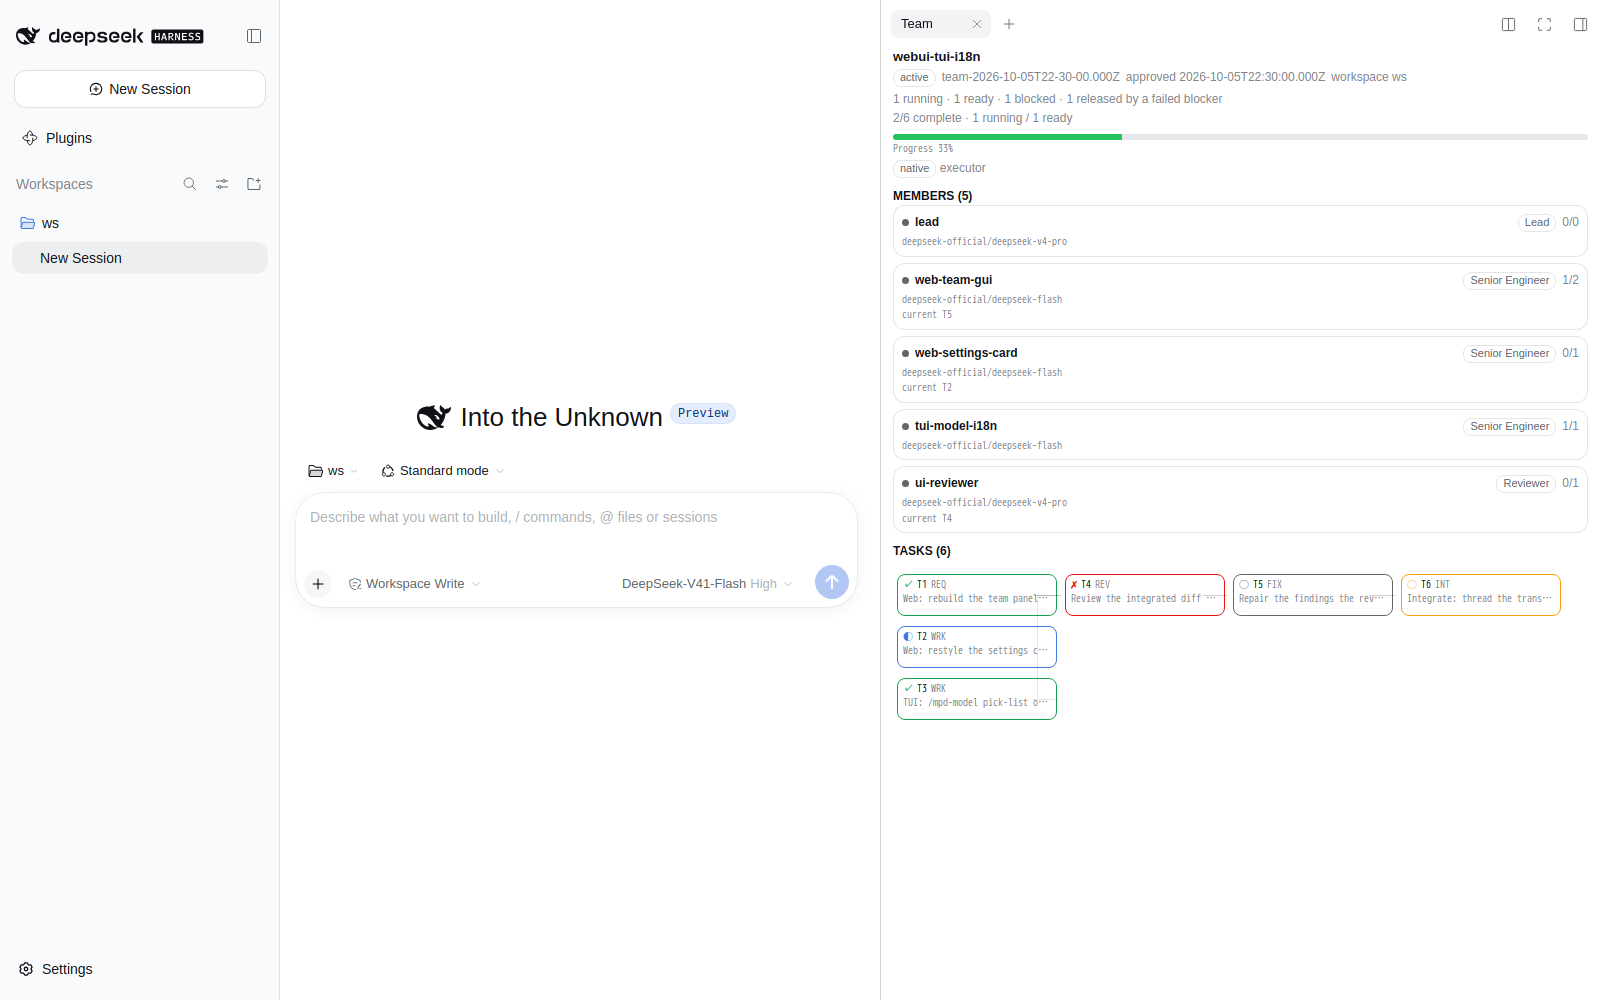
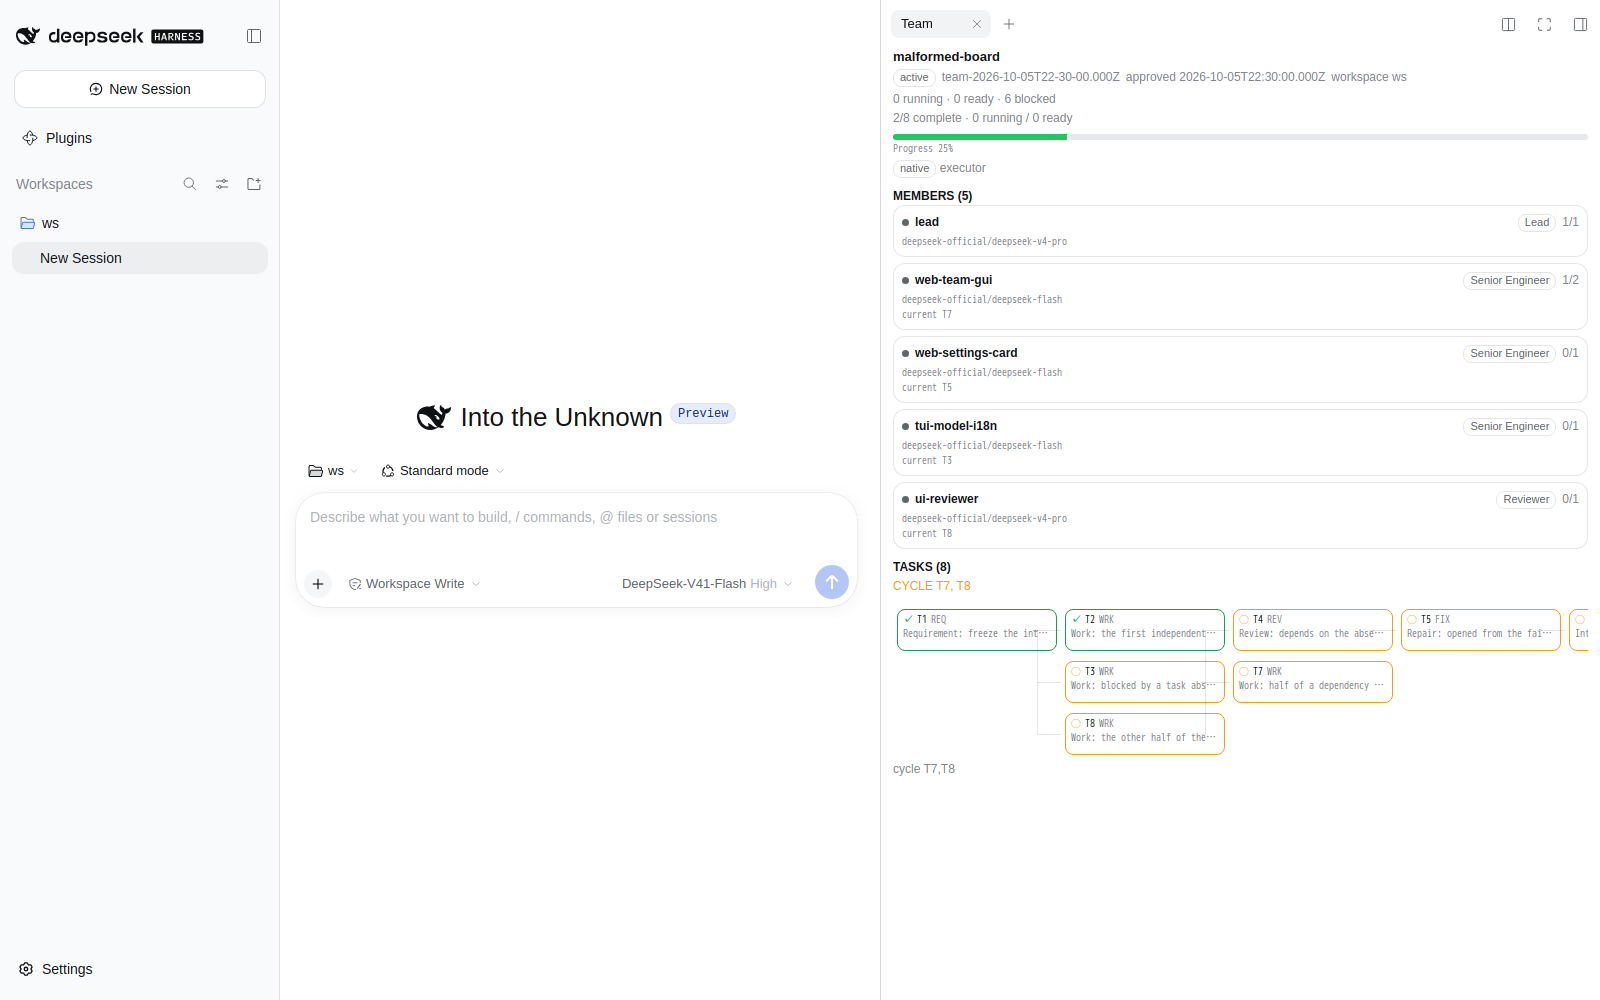
fix(web): the dependency edges connect, including on a cycle
The reviewer's F3, fixed rather than documented. An edge normally runs parent → child (the
blocker in an EARLIER rank), but a dependency CYCLE produces a back-edge whose parent sits
in a LATER rank. The first shape fixed each horizontal stub at `EDGE_LEAD` px from its own
node, so on a back-edge NEITHER stub reached the riser and the edge drew as two
disconnected dashes — non-negative, therefore contract-conformant, but not a line a reader
can follow.

Both stubs now END AT the riser, so the path connects in either direction without changing
any width the contract already required. The arithmetic in the existing test is what proved
it: the riser sits at 144 while the lead-out spanned 140 + 25, running 20px PAST it.

The test's pinned width moved with the fix (25px → 5px = 144 - 140 + 1) and its comment now
records why, so the corrected geometry is asserted rather than described.

Verified on the malformed board, whose cycle is the whole point: `CYCLE T7,T8` reported,
seven edges drawn, all thirteen checks PASS, 0 overlapping node boxes.

diff --git a/packages/mpd-bundle-plugin/client.js b/packages/mpd-bundle-plugin/client.js
@@ -10020,9 +10020,21 @@ window.__ModuleLoader__.load({ id: "@mpd-dsh/mpd", factory: // mpd bundle web cl
        */
       const edgeOf = (parent           , child           , tinted                     )          => {
         // The riser sits in the gap between the two columns, so it never crosses a node in either.
+        //
+        // MEASURED 2026-10-06, and this is why the two ends are computed rather than assumed: an edge
+        // normally runs parent → child (the blocker in an EARLIER rank), but a dependency CYCLE produces
+        // a back-edge whose parent sits in a LATER rank. The first shape fixed each horizontal stub at
+        // `EDGE_LEAD` px from its own node, so on a back-edge neither stub reached the riser and the edge
+        // drew as two disconnected dashes — non-negative and therefore contract-conformant, but not a
+        // line a reader can follow. Both stubs now END AT the riser, so the path connects in either
+        // direction without changing any width from what the contract already required.
         const riserX = child.rank * COLUMN_W - EDGE_LEAD
         /** The lead-out's left edge: the blocker column's right inset, where its node box ends. */
         const outLeft = parent.rank * COLUMN_W + COLUMN_W - NODE_INSET - EDGE_LEAD
+        /** Which column's boundary the edge leaves from; the child's gap on a back-edge. */
+        const leadOutLeft = outLeft < riserX ? outLeft : riserX + 1
+        /** Where the arriving stub starts, measured back from the node it reaches. */
+        const leadInLeft = riserX
         /** The blocker's vertical centre, where the edge leaves it. */
         const outY = parent.top + NODE_H / 2
         /** The dependant's vertical centre, where the edge arrives. */
@@ -10041,9 +10053,9 @@ window.__ModuleLoader__.load({ id: "@mpd-dsh/mpd", factory: // mpd bundle web cl
           "data-mpd-edge": child.task.id + "<-" + parent.task.id,
           style: CSS.edgeLayer,
         },
-          react.createElement("div", { key: "out", style: segment(outLeft, outY, EDGE_LEAD + 1, 1) }),
+          react.createElement("div", { key: "out", style: segment(leadOutLeft, outY, Math.max(riserX - leadOutLeft + 1, 1), 1) }),
           react.createElement("div", { key: "riser", style: segment(riserX, riserTop, 1, Math.max(Math.abs(inY - outY), 1)) }),
-          react.createElement("div", { key: "in", style: segment(riserX, inY, EDGE_LEAD, 1) }),
+          react.createElement("div", { key: "in", style: segment(leadInLeft, inY, EDGE_LEAD, 1) }),
         )
       }
 

diff --git a/packages/mpd-bundle-plugin/src/team-view.ts b/packages/mpd-bundle-plugin/src/team-view.ts
@@ -643,9 +643,21 @@
        */
       const edgeOf = (parent: GraphNode, child: GraphNode, tinted: boolean | undefined): unknown => {
         // The riser sits in the gap between the two columns, so it never crosses a node in either.
+        //
+        // MEASURED 2026-10-06, and this is why the two ends are computed rather than assumed: an edge
+        // normally runs parent → child (the blocker in an EARLIER rank), but a dependency CYCLE produces
+        // a back-edge whose parent sits in a LATER rank. The first shape fixed each horizontal stub at
+        // `EDGE_LEAD` px from its own node, so on a back-edge neither stub reached the riser and the edge
+        // drew as two disconnected dashes — non-negative and therefore contract-conformant, but not a
+        // line a reader can follow. Both stubs now END AT the riser, so the path connects in either
+        // direction without changing any width from what the contract already required.
         const riserX = child.rank * COLUMN_W - EDGE_LEAD
         /** The lead-out's left edge: the blocker column's right inset, where its node box ends. */
         const outLeft = parent.rank * COLUMN_W + COLUMN_W - NODE_INSET - EDGE_LEAD
+        /** Which column's boundary the edge leaves from; the child's gap on a back-edge. */
+        const leadOutLeft = outLeft < riserX ? outLeft : riserX + 1
+        /** Where the arriving stub starts, measured back from the node it reaches. */
+        const leadInLeft = riserX
         /** The blocker's vertical centre, where the edge leaves it. */
         const outY = parent.top + NODE_H / 2
         /** The dependant's vertical centre, where the edge arrives. */
@@ -664,9 +676,9 @@
           "data-mpd-edge": child.task.id + "<-" + parent.task.id,
           style: CSS.edgeLayer,
         },
-          react.createElement("div", { key: "out", style: segment(outLeft, outY, EDGE_LEAD + 1, 1) }),
+          react.createElement("div", { key: "out", style: segment(leadOutLeft, outY, Math.max(riserX - leadOutLeft + 1, 1), 1) }),
           react.createElement("div", { key: "riser", style: segment(riserX, riserTop, 1, Math.max(Math.abs(inY - outY), 1)) }),
-          react.createElement("div", { key: "in", style: segment(riserX, inY, EDGE_LEAD, 1) }),
+          react.createElement("div", { key: "in", style: segment(leadInLeft, inY, EDGE_LEAD, 1) }),
         )
       }
 

diff --git a/packages/mpd-bundle-plugin/test/team-view.test.ts b/packages/mpd-bundle-plugin/test/team-view.test.ts
@@ -474,12 +474,16 @@ describe("team-view drawn edges", () => {
     /** The edge's three segments, in draw order. */
     const segments = (edge[0].props.children as ElementNode[])
     expect(segments.map((segment) => segment.key)).toEqual(["out", "riser", "in"])
-    // Column 0's node box ends at 168-4 = 164, the lead-out reaches back 24px, and the parent's centre
-    // is its top (4) plus half a node (21). The child's centre is the same, so the riser collapses to
-    // its minimum of one pixel at the arrival's y — arithmetic over the payload, never a measurement.
+    // Column 0's node box ends at 168-4 = 164, the lead-out starts 24px back at 140, and the parent's
+    // centre is its top (4) plus half a node (21). The child's centre is the same, so the riser collapses
+    // to its minimum of one pixel at the arrival's y — arithmetic over the payload, never a measurement.
     expect(styleOf(segments[0], "left")).toBe("140px")
     expect(styleOf(segments[0], "top")).toBe("25px")
-    expect(styleOf(segments[0], "width")).toBe("25px")
+    // THE STUB ENDS AT THE RISER, and this number is the correction: the riser sits at 144, so a 25px
+    // lead-out ran 20px PAST it and the two horizontal segments met nothing — MEASURED 2026-10-06, on a
+    // dependency CYCLE (whose back-edge puts the parent to the right) the edge drew as two disconnected
+    // dashes. 144 - 140 + 1 makes the three segments one continuous path.
+    expect(styleOf(segments[0], "width")).toBe("5px")
     expect(styleOf(segments[0], "height")).toBe("1px")
     expect(styleOf(segments[0], "position")).toBe("absolute")
     expect(styleOf(segments[1], "left")).toBe("144px")
